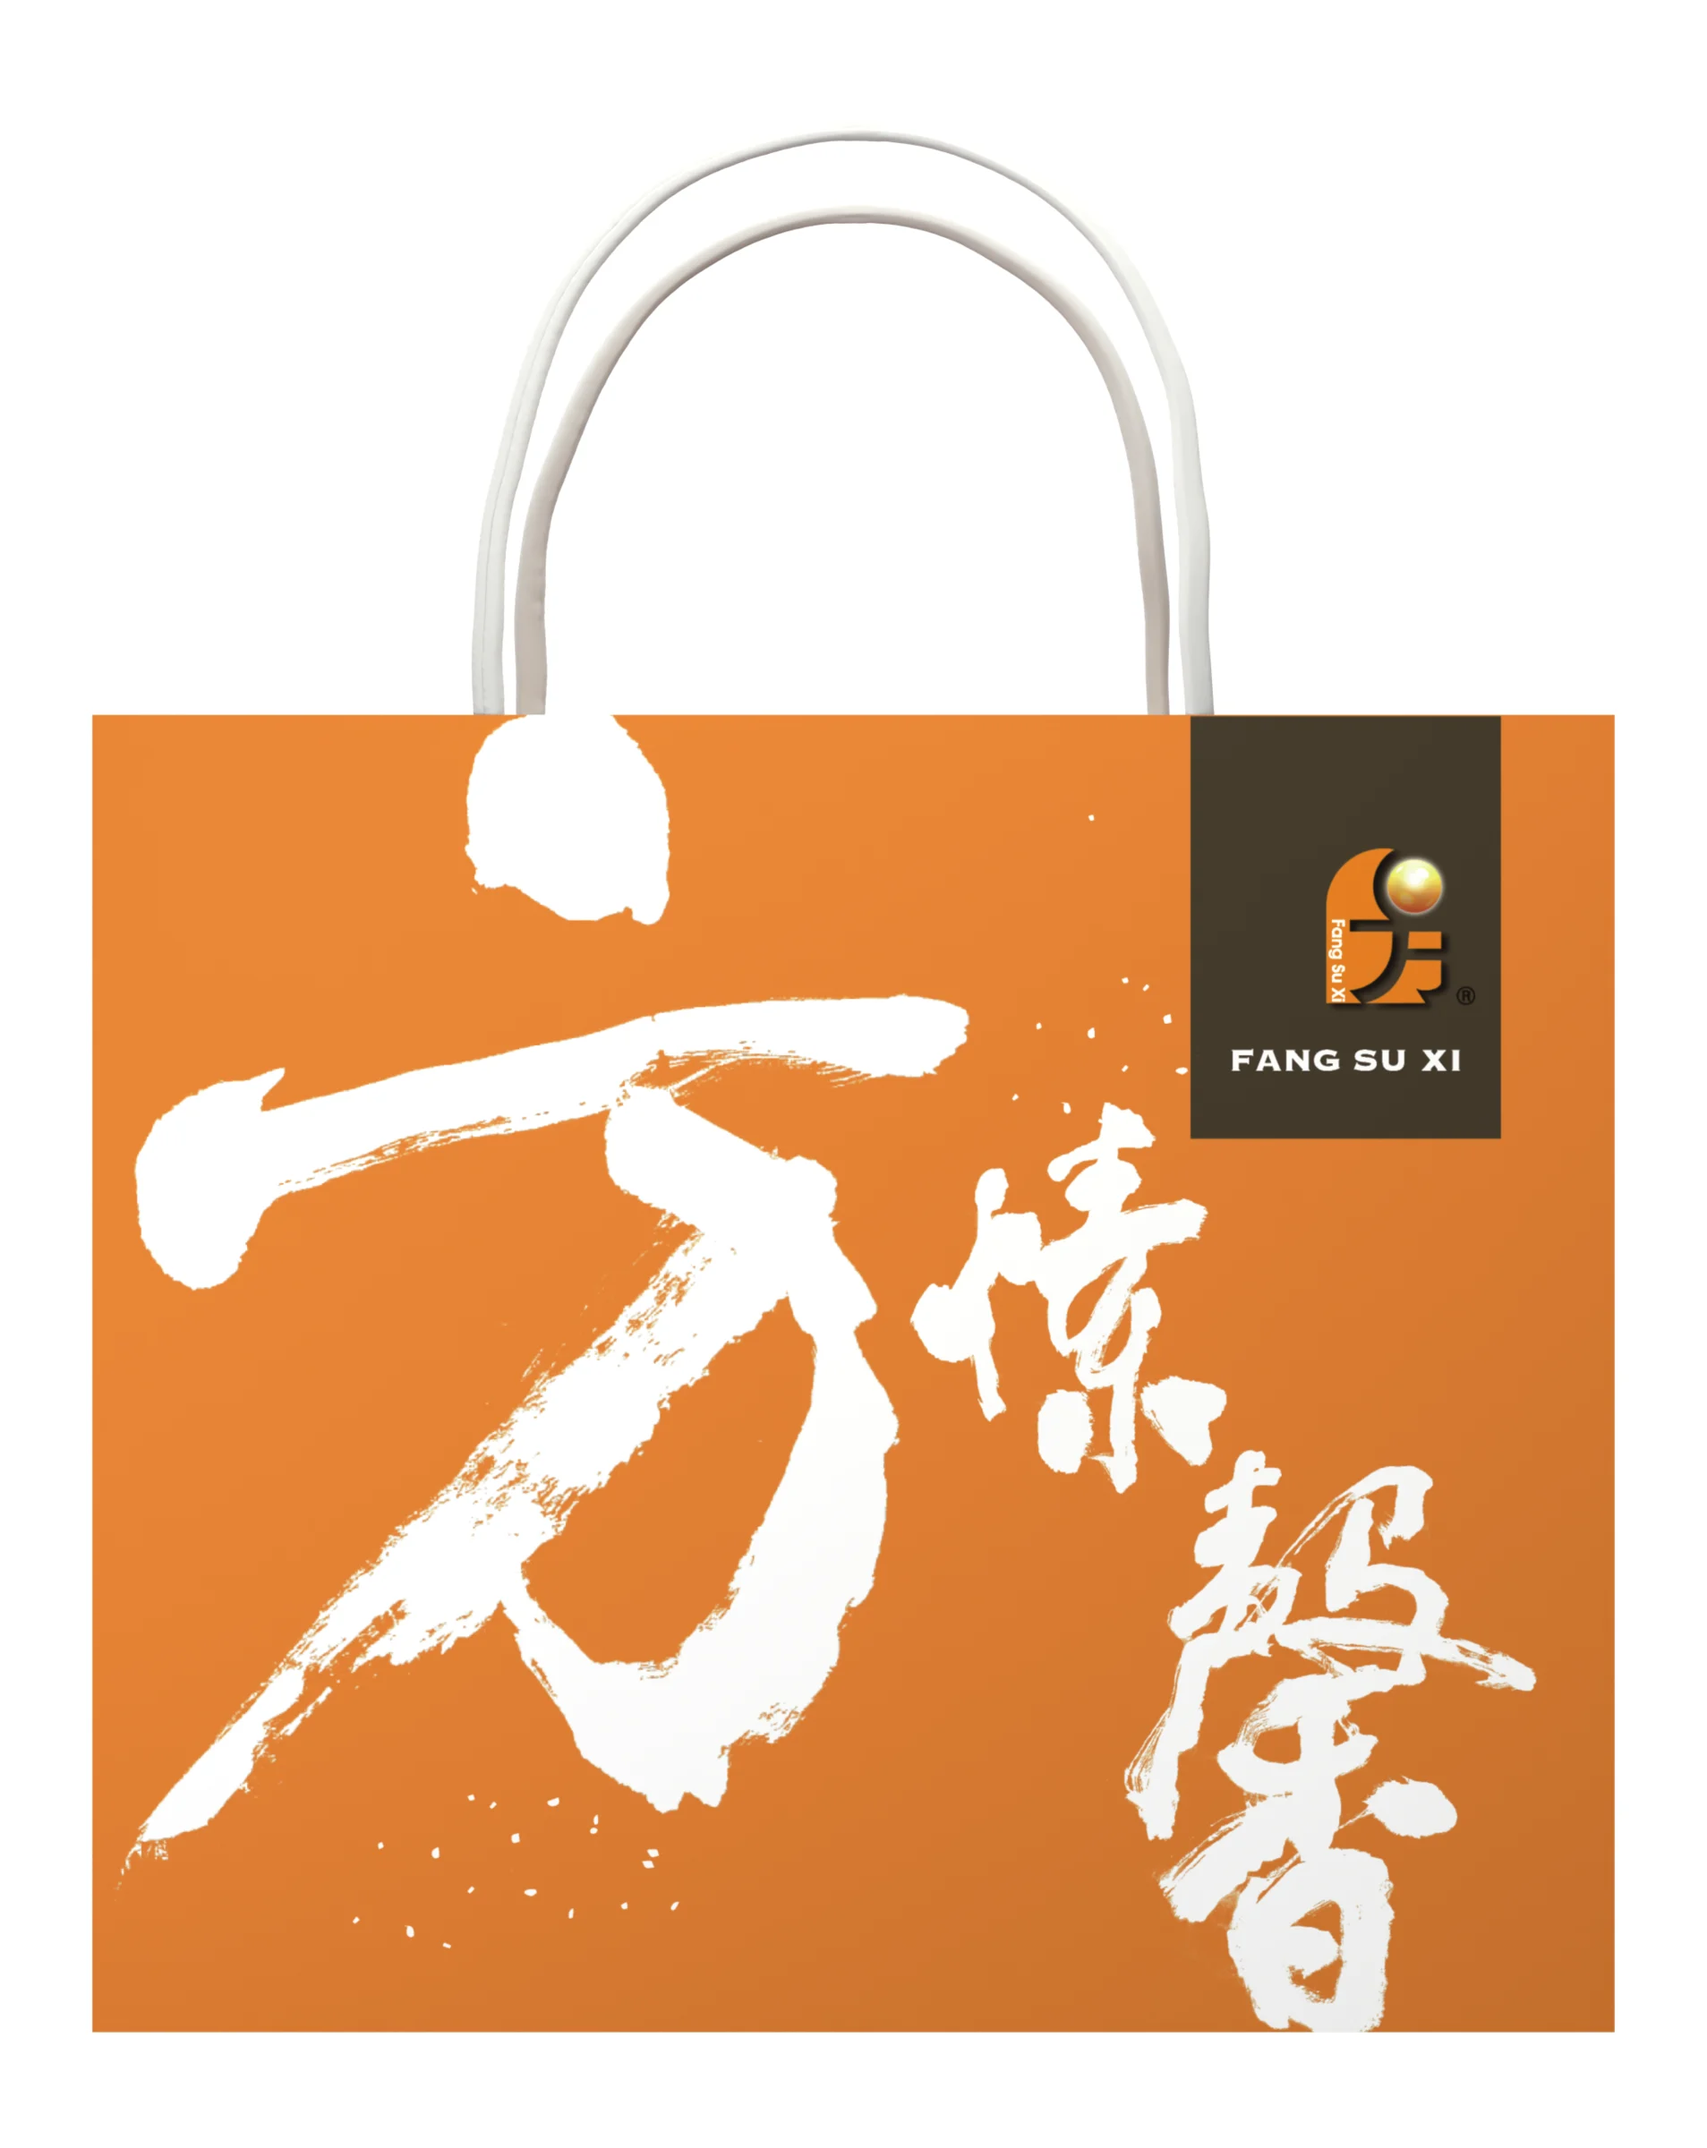
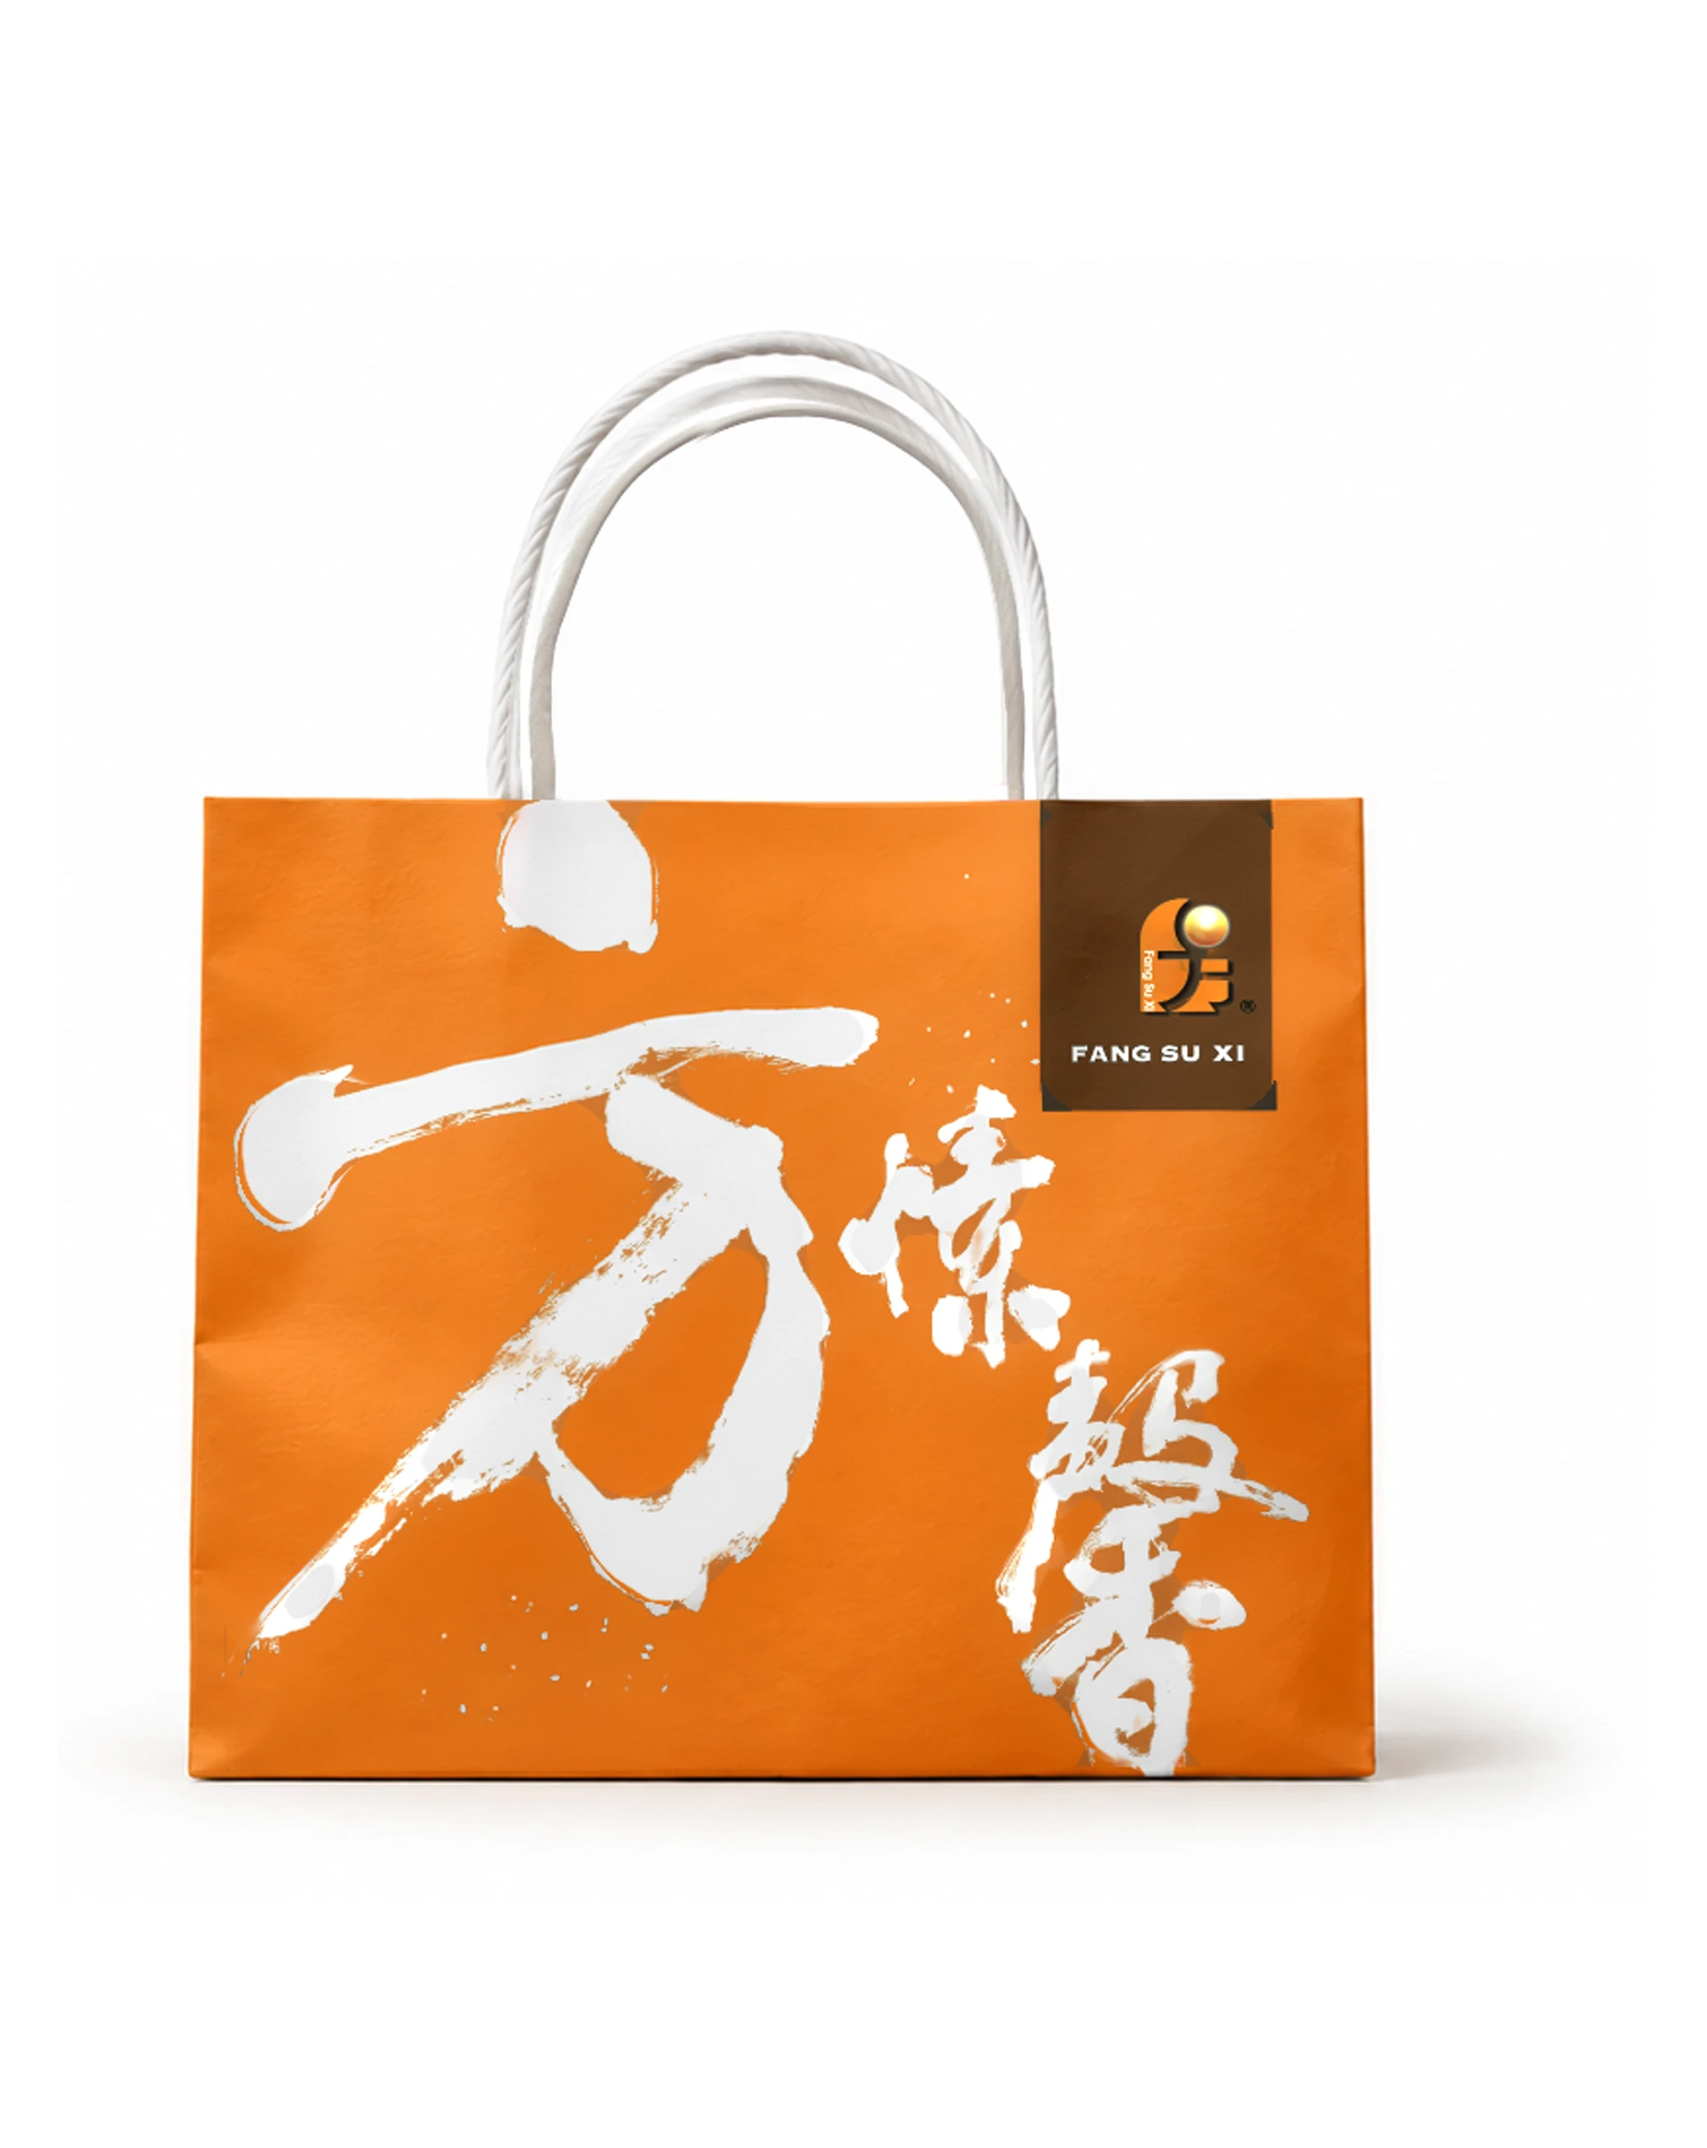
cover: fangzhou picnic scene; luganfsx material fixes
Claude-Session: https://claude.ai/code/session_01FHAxfGfD8vpumr7C1YBcXa

diff --git a/cases/luganfsx.html b/cases/luganfsx.html
@@ -33,13 +33,13 @@
   <p class="rl-en">Fang Su Xi (Lukang) — Mochi Gift Box &amp; Bag</p>
   <div class="rl-meta2"><div><small>Client</small><b>方愫馨（鹿港店）</b></div><div><small>Scope</small><b>6入麻糬禮盒・平放袋包裝設計</b></div><div><small>Agency</small><b>薪鼎包裝 Senior Deed</b></div></div>
 </header>
-<figure class="rl-hero"><img class="rl-pg" src="./old/luganfsx/01.webp?v=261127n" alt="方愫馨（鹿港店） 01" loading="eager"></figure>
+<figure class="rl-hero"><img class="rl-pg" src="./old/luganfsx/01.webp?v=mat1" alt="方愫馨（鹿港店） 01" loading="eager"></figure>
 <section class="rl-reel">
-  <img class="rl-pg" src="./old/luganfsx/02.webp?v=261127n" alt="方愫馨（鹿港店） 02" loading="lazy" decoding="async">
+  <img class="rl-pg" src="./old/luganfsx/02.webp?v=mat1" alt="方愫馨（鹿港店） 02" loading="lazy" decoding="async">
   <img class="rl-pg" src="./old/luganfsx/03.webp?v=261127n" alt="方愫馨（鹿港店） 03" loading="lazy" decoding="async">
-  <img class="rl-pg" src="./old/luganfsx/04.webp?v=261127n" alt="方愫馨（鹿港店） 04" loading="lazy" decoding="async">
-  <img class="rl-pg" src="./old/luganfsx/05.webp?v=261127n" alt="方愫馨（鹿港店） 05" loading="lazy" decoding="async">
-  <img class="rl-pg" src="./old/luganfsx/06.webp?v=261127n" alt="方愫馨（鹿港店） 06" loading="lazy" decoding="async">
+  <img class="rl-pg" src="./old/luganfsx/04.webp?v=mat1" alt="方愫馨（鹿港店） 04" loading="lazy" decoding="async">
+  <img class="rl-pg" src="./old/luganfsx/05.webp?v=mat1" alt="方愫馨（鹿港店） 05" loading="lazy" decoding="async">
+  <img class="rl-pg" src="./old/luganfsx/06.webp?v=mat1" alt="方愫馨（鹿港店） 06" loading="lazy" decoding="async">
   <img class="rl-pg" src="./old/luganfsx/07.webp?v=261127n" alt="方愫馨（鹿港店） 07" loading="lazy" decoding="async">
 </section>
 <div class="rl-end"><a href="./"><i>←</i>回到全部作品</a></div>

diff --git a/cases/index.html b/cases/index.html
@@ -216,7 +216,7 @@ const CASES=[
 {slug:"yuyou",nm:"魚有王",kind:"品牌識別・包裝設計",items:"品牌識別・禮盒・提袋・單入盒",cover:"./covers/yuyou.webp",o:B+"yuyou/yuyou-cover2.webp",tags:["品牌設計包裝", "禮盒", "提袋", "品牌識別"]},
 {slug:"zhiyue",nm:"指月亭",kind:"品牌識別・包裝設計",items:"Logo 優化・色彩計畫・包裝設計",cover:"./covers/zhiyue.webp",o:B+"zhiyue/zhiyue-cover2.webp",tags:["品牌設計包裝", "品牌識別"]},
 {slug:"zhong",nm:"鍾師父",kind:"品牌識別・禮盒包裝",items:"Logo・禮盒包裝・延伸應用",cover:"./covers/zhong.webp",o:B+"zhong/zhong-cover-v2.webp",tags:["品牌設計包裝", "禮盒", "品牌識別"]},
-{slug:"fangzhou",nm:"方舟啟智教養院",kind:"包裝提案",items:"",cover:W("779c2e_7b5fefbc9a1f4de3bfa7476e78abf146~mv2.jpg"),tags:["公版套版客製"]},
+{slug:"fangzhou",nm:"方舟啟智教養院",kind:"包裝提案",items:"",cover:"./covers/fangzhou.webp?v=3",tags:["公版套版客製"]},
 {slug:"falemi",nm:"法叻米食品",kind:"包裝設計",items:"",cover:"./covers/falemi.webp?v=3",tags:["公版套版客製"]},
 {slug:"mantou",nm:"饅頭君",kind:"",items:"",cover:W("779c2e_f65da06a9c8a48f4a73b915aebafe40a~mv2.jpg"),tags:["公版套版客製"]},
 {slug:"bitian",nm:"碧田家",kind:"包裝提案・菜單設計・廣告看板",items:"",cover:"./covers/bitian.webp?v=3",tags:["公版套版客製"]},
